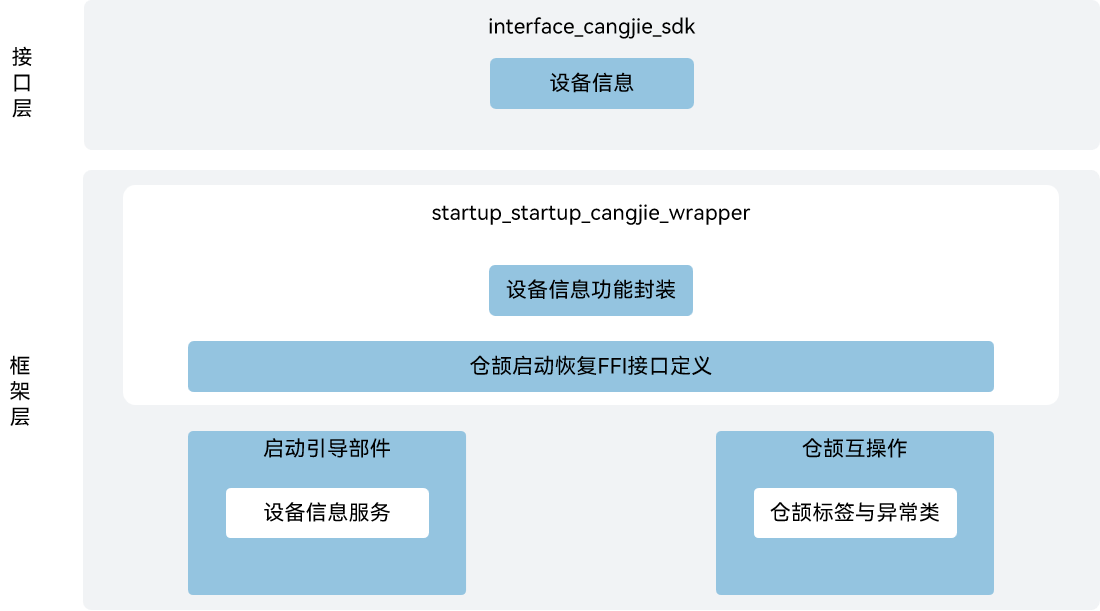
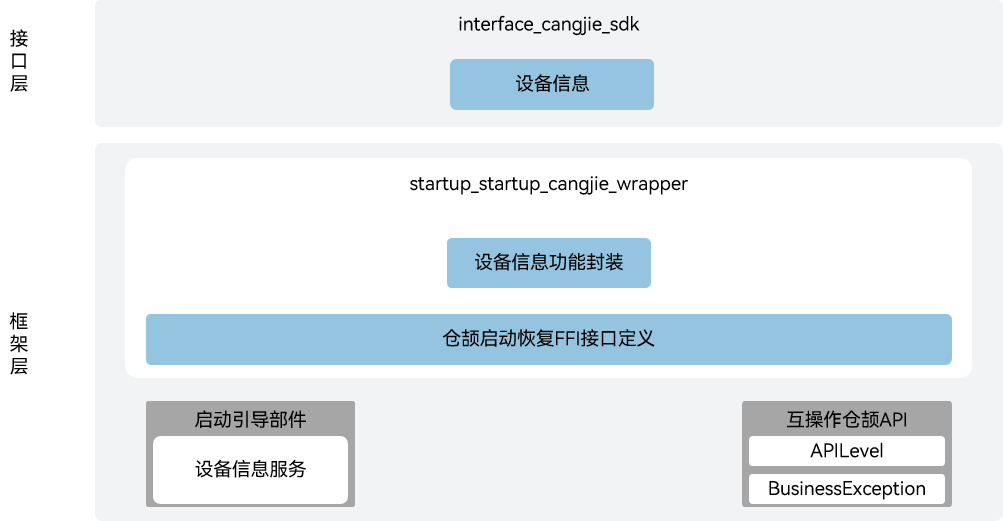
fix readme

diff --git a/README_zh.md b/README_zh.md
@@ -12,10 +12,9 @@
 
 如架构图所示，当前启动恢复仓颉接口提供设备信息服务:
 
-- 设备信息: 主要包括OHOS固定值参数、厂商固定值参数以及厂商动态参数。
-- 仓颉启动恢复FFI接口定义： 负责定义C语言互操作仓颉接口，用于实现仓颉启动恢复能力。
+- 设备信息：主要包括OHOS固定值参数、厂商固定值参数以及厂商动态参数。
+- 仓颉启动恢复FFI接口定义：负责定义C语言互操作仓颉接口，用于实现仓颉启动恢复能力。
 - 启动引导部件：负责提供设备信息SA服务，封装C语言接口提供给仓颉进行互操作。
-- 仓颉互操作：提供API标签与异常类。
 
 ## 目录
 
@@ -24,14 +23,18 @@ base/startup/startup_cangjie_wrapper
 ├── figures         # 存放README中的架构图
 └── ohos            # 仓颉启动恢复子系统接口实现
 │   └── device_info # 设备信息模块实现
-└── test            # 仓颉启动恢复子系统测试用例
+└── test            # 测试用例
+    └── APILevel22
+      └── device_info # 设备信息测试用例
 ```
 
 ## 使用说明
 
-当前启动恢复仓颉接口主要设备信息服务。
+当前启动恢复仓颉接口提供以下能力：
 
-启动恢复相关API请参见[ohos.device_info（设备信息）](https://gitcode.com/openharmony-sig/arkcompiler_cangjie_ark_interop/blob/master/doc/API_Reference/source_zh_cn/apis/BasicServicesKit/cj-apis-device_info.md)。
+- 获取设备信息。
+
+启动恢复相关接口请参见[设备信息API文档](https://gitcode.com/openharmony-sig/arkcompiler_cangjie_ark_interop/blob/master/doc/API_Reference/source_zh_cn/apis/BasicServicesKit/cj-apis-device_info.md)。
 
 ## 参与贡献
 
@@ -40,4 +43,5 @@ base/startup/startup_cangjie_wrapper
 ## 相关仓
 
 [arkcompiler_cangjie_ark_interop](https://gitcode.com/openharmony-sig/arkcompiler_cangjie_ark_interop)
+
 [startup_init](https://gitcode.com/openharmony/startup_init)

diff --git a/README.md b/README.md
@@ -13,9 +13,8 @@ The startup_startup_cangjie_wrapper is a Cangjie API encapsulated on OpenHarmony
 As shown in the architecture diagram, the current startup Cangjie API provides device information services:
 
 - DeviceInfo: Mainly includes OHOS fixed-value parameters, manufacturer fixed-value parameters, and manufacturer dynamic parameters.
-- Cangjie Startup FFI Interface Definition: Responsible for defining C language interoperation Cangjie interfaces, used to implement Cangjie startup capabilities.
+- Cangjie Startup FFI Interface Definition: Responsible for defining C interoperation Cangjie interfaces, used to implement Cangjie startup capabilities.
 - init: Responsible for providing device information SA services, encapsulating C interfaces for interoperation with Cangjie.
-- ark_interop: Provides APILevel and BusinessException.
 
 ## Directory Structure
 
@@ -25,6 +24,8 @@ base/startup/startup_cangjie_wrapper
 └── ohos            # Cangjie startup subsystem interface implementation
 │   └── device_info # DeviceInfo module implementation
 └── test            # Cangjie startup subsystem test cases
+    └── APILevel22
+      └── device_info # DeviceInfo test cases
 ```
 
 ## Usage
@@ -40,4 +41,5 @@ Developers are welcome to contribute code, documentation, etc. For specific cont
 ## Repositories Involved
 
 [arkcompiler_cangjie_ark_interop](https://gitcode.com/openharmony-sig/arkcompiler_cangjie_ark_interop)
+
 [startup_init](https://gitcode.com/openharmony/startup_init)
